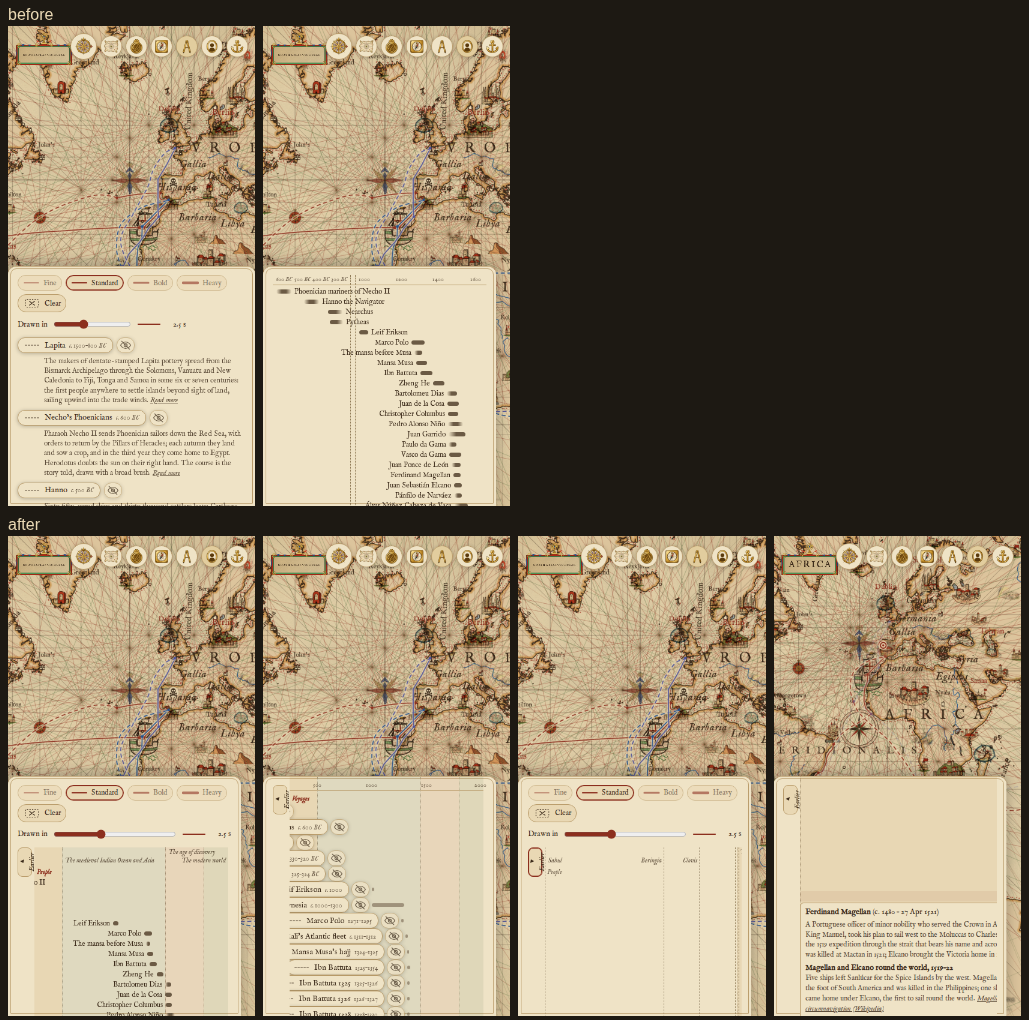
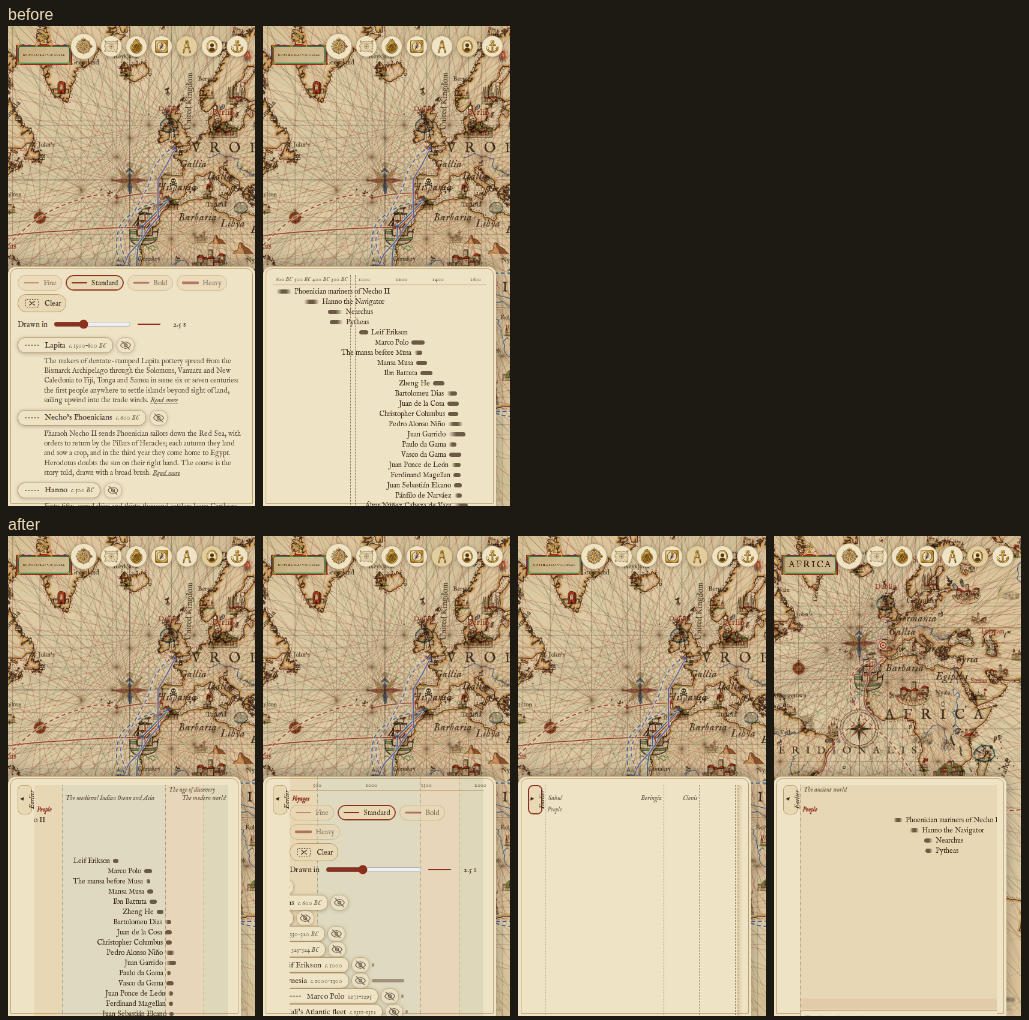
fix(timeline): the voyages' controls head their lane; the first load scrolls to the lane asked for last; one way of writing years

diff --git a/public/index.html b/public/index.html
@@ -66,12 +66,13 @@
   .places .group > details > .places { margin: 2px 0 4px 12px; }
   .notes { display: block; font: italic 13px var(--serif); color: var(--muted); } /* an entry's caption, or "notes to come" */
   .places .notes { margin: -2px 0 2px 10px; }
-  #where .places button { display: block; text-align: left; }
   #where .places button, #goPanel button, #voyageList button { padding: 3px 10px; font: 13px var(--serif); border-radius: 12px; }
+  #where .places button { display: block; text-align: left; }
   #coords { display: flex; gap: 4px; align-self: stretch; }
   #coords input { flex: 1; min-width: 0; max-width: none; padding: 3px 8px; font: 13px var(--serif); border-radius: 12px; background: var(--panel); color: var(--fg); border: 1px solid var(--rule); }
   /* the Voyages and People buttons' drawer: one timeline on one linear year axis, people above it and voyages below,
-     the eras of the points of interest as faint bands behind both, and at its left end the Earlier tab */
+     the eras of the points of interest as faint bands behind both, and at its left end the Earlier tab; the voyages'
+     controls (line weight, Clear, the pen's pace) head the voyages' lane */
   #timelinePanel { width: min(720px, 100vw - 24px); max-width: none; align-items: stretch; }
   #timelinePanel .vtools { display: flex; flex-wrap: wrap; align-items: center; gap: 6px; margin-bottom: 4px; }
   #timelinePanel .chip { display: inline-flex; padding: 3px 8px; border-radius: 14px; box-shadow: none; font: 12px var(--serif); background: var(--sheet); color: var(--sheet-ink); }
@@ -97,6 +98,8 @@
   .eras .mark.edge b { right: auto; left: 4px; }
   .eras .brk { position: absolute; top: 0; bottom: 0; width: 5px; margin-left: -3px; border-left: 1px dashed #8a7550; border-right: 1px dashed #8a7550; } /* where the earlier stretch's scale gives way to the main one */
   .erahead { height: 30px; }
+  .vcontrols { position: sticky; left: 0; z-index: 1; width: max-content; max-width: min(100%, 100vw - 100px); margin: 2px 0 4px; } /* the voyages' own controls, next to their lane, in view however far the track is scrolled */
+  .vcontrols > :last-child { margin-bottom: 0; }
   .lanecap { position: sticky; left: 0; display: inline-block; padding: 0 4px; font: italic 11px/15px var(--serif); opacity: 0.7; }
   .lanecap.lit { opacity: 1; color: #8c2f1e; font-weight: bold; } /* the lane its button opened the drawer to */
   .lane { position: relative; list-style: none; margin: 0; padding: 0; }
@@ -415,8 +418,6 @@
     <ul id="sightsList" class="places"></ul>
   </div>
   <div id="timelinePanel" class="drawer menu">
-    <div class="vtools"><div id="voyageWidth" class="chips" role="radiogroup" aria-label="Line weight"></div></div>
-    <div class="slider vdraw" title="How long the pen takes to draw a voyage on when its name is clicked"><label for="voyageDraw">Drawn in</label><input id="voyageDraw" type="range"><svg id="voyageDrawSample" viewBox="0 0 40 10" aria-hidden="true"><path d="M2 5h36" pathLength="1"/></svg><output id="voyageDrawOut" for="voyageDraw"></output></div>
     <div class="timeline">
       <div class="tleft"><button id="earlier" class="earlier" type="button" aria-pressed="false" aria-controls="track" title="Earlier history: the timeline back to 50,000 BC"><span class="chev">&#9656;</span> Earlier</button></div>
       <div id="timeScroll" class="tscroll">
@@ -427,6 +428,10 @@
           <div id="peopleStrip" class="lane strip" role="group" aria-label="People, each a bar over the years they lived; choose one"></div>
           <div id="timeAxis" aria-hidden="true"></div>
           <div id="voyagesCap" class="lanecap">Voyages</div>
+          <div class="vcontrols">
+            <div class="vtools"><div id="voyageWidth" class="chips" role="radiogroup" aria-label="Line weight"></div></div>
+            <div class="slider vdraw" title="How long the pen takes to draw a voyage on when its name is clicked"><label for="voyageDraw">Drawn in</label><input id="voyageDraw" type="range"><svg id="voyageDrawSample" viewBox="0 0 40 10" aria-hidden="true"><path d="M2 5h36" pathLength="1"/></svg><output id="voyageDrawOut" for="voyageDraw"></output></div>
+          </div>
           <ul id="voyageList" class="lane" role="group" aria-label="Voyages, any number, each at its years"></ul>
         </div>
       </div>

diff --git a/public/page.js b/public/page.js
@@ -1793,7 +1793,7 @@ if (style.person) loadPeople().then(showPeople, () => {}); // a link that names 
 // The drawer the Voyages and People buttons share: one timeline on one linear year axis (scripts/people.mjs laneAxis),
 // people above the axis and voyages below it, from the Lapita voyages to this year at true scale throughout, so a stretch
 // with nobody in it reads as empty rather than cut out. Behind both lanes, the eras of the points of interest as faint
-// colour bands, each named once at the top. Each button opens it at its own lane: People at the top, Voyages scrolled
+// colour bands, each named once at the top. The voyages' controls head their lane. Each button opens it at its own lane: People at the top, Voyages scrolled
 // to the axis, its lane's name lit. The Earlier tab at the left end adds the long stretch before Lapita, back to
 // 50,000 BC, at its own scale, with the windows of the peopling of Sahul, Beringia and the Americas marked on it and
 // nothing yet placed there. A phone scrolls the timeline sideways, and opens it at its right end, where most of it is.
@@ -1818,7 +1818,7 @@ function fillTimeline(lane, fresh) {
   $('voyagesCap').classList.toggle('lit', lane === 'voyages');
   if (!$('timeAxis').childElementCount) drawAxis();
   const atEnd = () => { if (fresh && timeAxis.width === 1) $('timeScroll').scrollLeft = $('timeScroll').scrollWidth; }; // a phone: most entries are after AD 1000
-  if (fresh) Promise.allSettled([fillVoyages(), fillPeople()]).then(() => { atEnd(); if (timeLane === lane) toLane(lane); });
+  if (fresh) Promise.allSettled([fillVoyages(), fillPeople()]).then(() => { atEnd(); toLane(timeLane); }); // the lane asked for last, as the lanes now stand
   atEnd(); toLane(lane);
 }
 function toLane(lane) {
